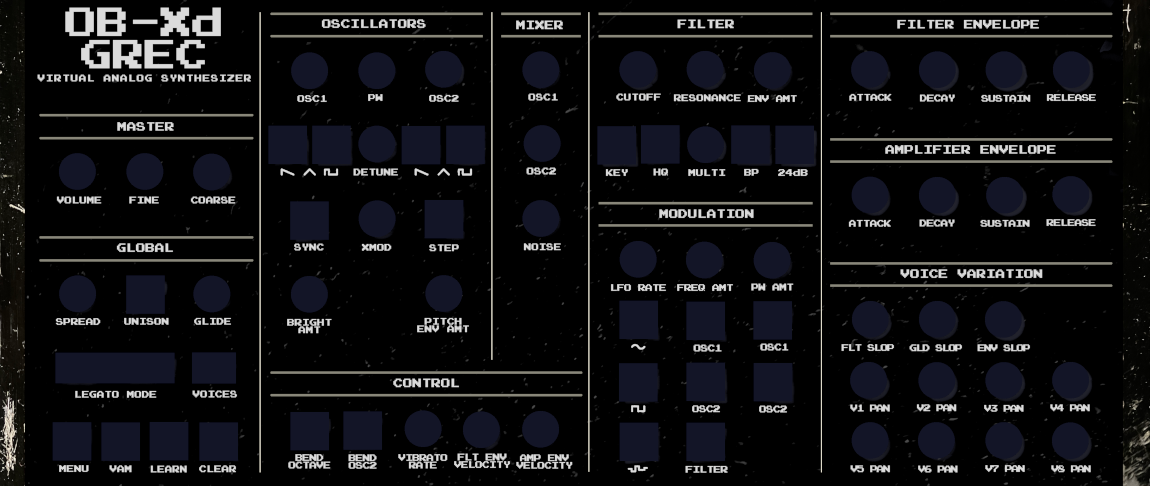
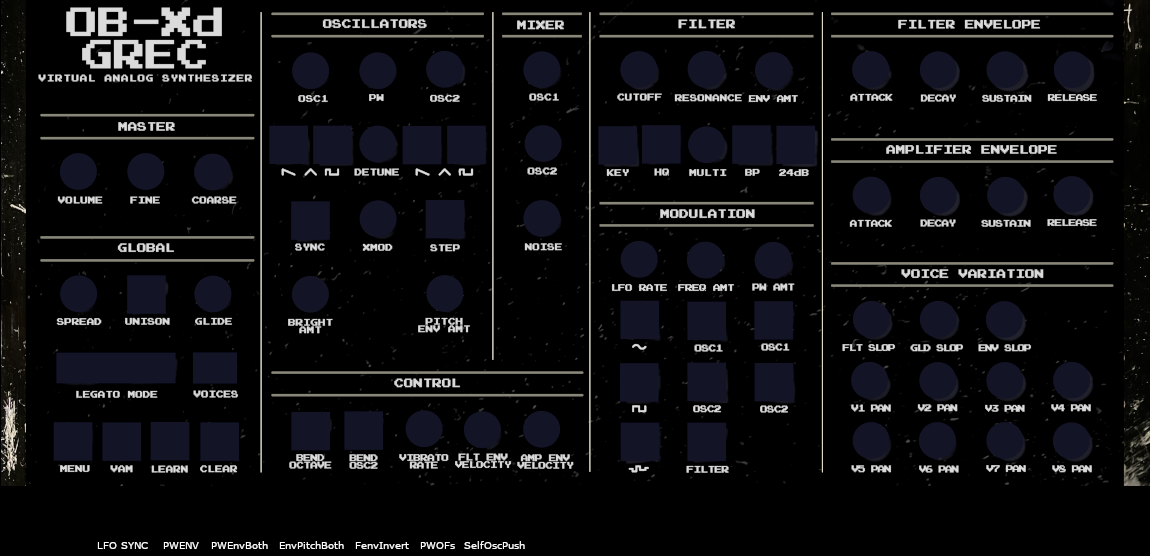
expose previously hidden parameters

diff --git a/Source/PluginEditor.cpp b/Source/PluginEditor.cpp
@@ -731,6 +731,42 @@ void ObxdAudioProcessorEditor::loadSkin(ObxdAudioProcessor &ownerFilter)
                     envelopeDetuneKnob = addKnob(x, y, d, ownerFilter, ENVDER, "Env", 0.2f);
                     mappingComps["envelopeDetuneKnob"] = envelopeDetuneKnob.get();
                 }
+                if (name == "lfoSyncButton")
+                {
+                    lfoSyncButton = addButton(x, y, w, h, ownerFilter, LFO_SYNC, "Sync");
+                    mappingComps["lfoSyncButton"] = lfoSyncButton.get();
+                }
+                if (name == "pwEnvKnob")
+                {
+                    pwEnvKnob = addKnob(x, y, d, ownerFilter, PW_ENV, "PWEnv", 0.2f);
+                    mappingComps["pwEnvKnob"] = pwEnvKnob.get();
+                }
+                if (name == "pwEnvBothButton")
+                {
+                    pwEnvBothButton = addButton(x, y, w, h, ownerFilter, PW_ENV_BOTH, "PWEnv");
+                    mappingComps["pwEnvBothButton"] = pwEnvBothButton.get();
+                }
+                if (name == "envPitchBothButton")
+                {
+                    envPitchBothButton = addButton(x, y, w, h, ownerFilter, ENV_PITCH_BOTH, "EnvP");
+                    mappingComps["envPitchBothButton"] = envPitchBothButton.get();
+                }
+                if (name == "fenvInvertButton")
+                {
+                    fenvInvertButton = addButton(x, y, w, h, ownerFilter, FENV_INVERT, "FEnv");
+                    mappingComps["fenvInvertButton"] = fenvInvertButton.get();
+                }
+                if (name == "pwOffsetKnob")
+                {
+                    pwOffsetKnob = addKnob(x, y, d, ownerFilter, PW_OSC2_OFS, "PWOff", 0.2f);
+                    mappingComps["pwOffsetKnob"] = pwOffsetKnob.get();
+                }
+                if (name == "selfOscPushButton")
+                {
+                    selfOscPushButton =
+                        addButton(x, y, w, h, ownerFilter, SELF_OSC_PUSH, "SOP");
+                    mappingComps["selfOscPushButton"] = selfOscPushButton.get();
+                }
             }
         }
 

diff --git a/Source/PluginEditor.h b/Source/PluginEditor.h
@@ -163,13 +163,14 @@ class ObxdAudioProcessorEditor final : public juce::AudioProcessorEditor,
         filterDetuneKnob, envelopeDetuneKnob, portamentoDetuneKnob, tuneKnob, lfoFrequencyKnob,
         lfoAmt1Knob, lfoAmt2Knob, pan1Knob, pan2Knob, pan3Knob, pan4Knob, pan5Knob, pan6Knob,
         pan7Knob, pan8Knob, brightnessKnob, envPitchModKnob, bendLfoRateKnob, veloAmpEnvKnob,
-        veloFltEnvKnob, transposeKnob;
+        veloFltEnvKnob, transposeKnob, pwEnvKnob, pwOffsetKnob;
 
     std::unique_ptr<TooglableButton> hardSyncButton, osc1SawButton, osc2SawButton, osc1PulButton,
         osc2PulButton, unisonButton, pitchQuantButton, filterHQButton, filterBPBlendButton,
         lfoSinButton, lfoSquareButton, lfoSHButton, lfoOsc1Button, lfoOsc2Button, lfoFilterButton,
         lfoPwm1Button, lfoPwm2Button, bendRangeButton, bendOsc2OnlyButton, fourPoleButton,
-        asPlayedAllocButton, midiLearnButton, midiUnlearnButton;
+        asPlayedAllocButton, midiLearnButton, midiUnlearnButton, lfoSyncButton, pwEnvBothButton,
+        envPitchBothButton, fenvInvertButton, selfOscPushButton;
 
     std::unique_ptr<ButtonList> voiceSwitch, legatoSwitch;
 
